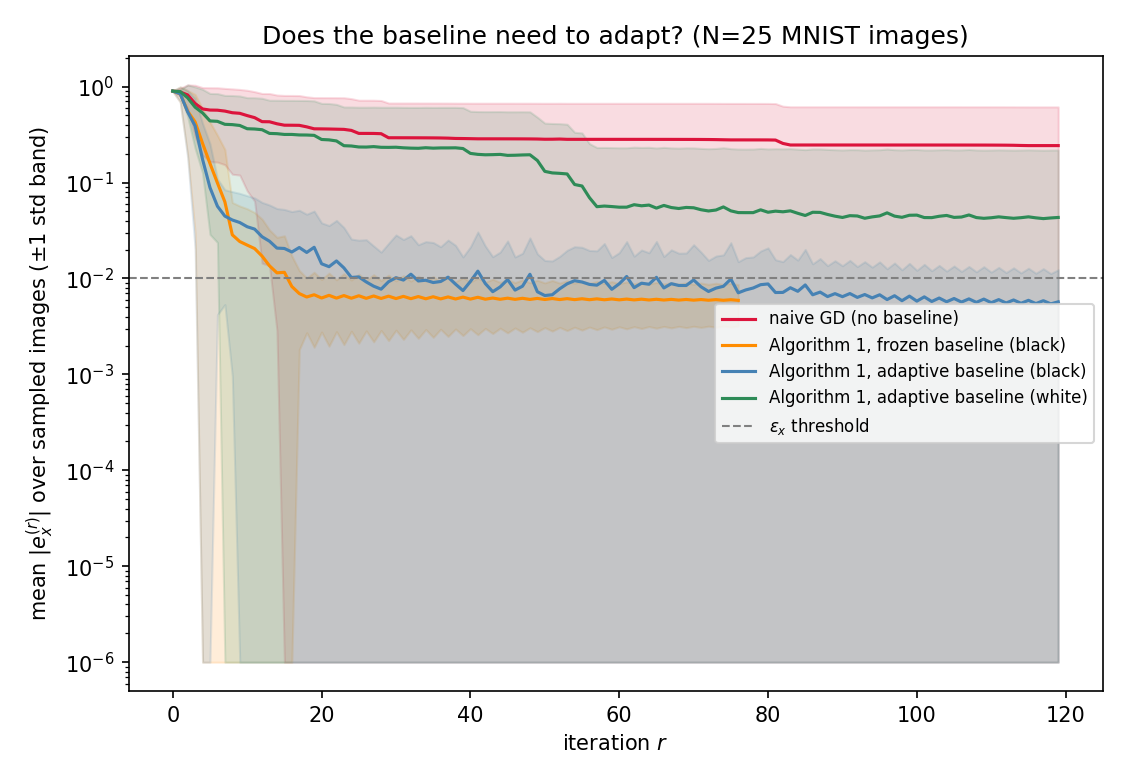
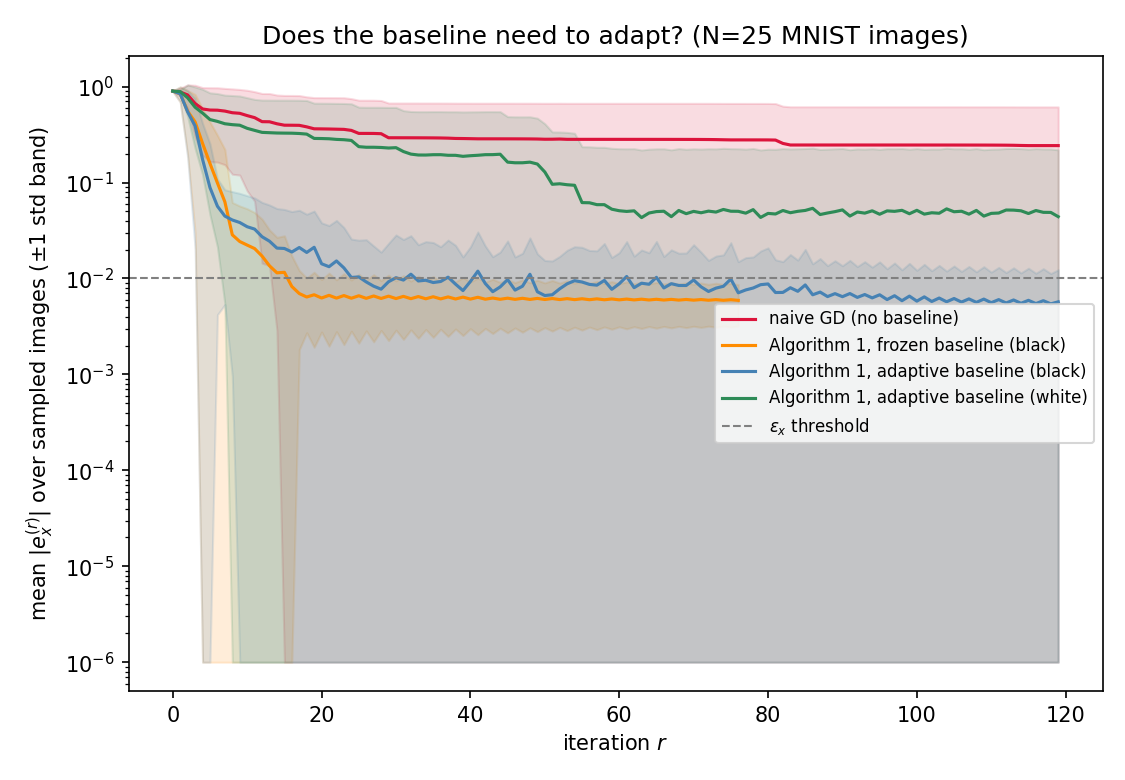
Sync: updated results

diff --git a/sim/ig_update.py b/sim/ig_update.py
@@ -113,32 +113,44 @@ def directional_path_sensitivity(f, b: torch.Tensor, d: torch.Tensor,
     return total / M
 
 
-def build_baseline_candidates(x: torch.Tensor, b: torch.Tensor, ig: torch.Tensor,
-                               top_k: int = 5, prev_dir: torch.Tensor | None = None):
+def ig_ranked_direction(f, b: torch.Tensor, ig: torch.Tensor, top_k: int,
+                         delta_b: float, M: int) -> torch.Tensor:
     """
-    Candidate directions per Sec 5.1: +/- e_j for IG-important coordinates,
-    the previous successful baseline direction, and the normalized current
-    deviation (x - b) as an optional probe.
+    Sec 5.1 candidate construction, simplified: rather than searching over a
+    handful of separate +/-e_j / previous-direction / full-deviation
+    candidates and probing each one, build a single combined direction
+    directly from IG's own ranking. IG picks *which* top-k coordinates to
+    move (its |IG_j| ranking); a short local probe on each of those
+    coordinates -- not the sign of x_j - b_j -- picks *which way*, weighted
+    by |IG_j|. Using dev's sign for direction would seem natural (and is
+    what an earlier version of this did) but is wrong once the baseline
+    advances past x along the useful direction: dev flips sign as soon as b
+    "overtakes" x, stalling further progress even though that direction is
+    still correct. A local probe has no notion of "toward x," so it keeps
+    giving the right sign regardless of where b sits relative to x.
     """
-    cands = {}
-    top = torch.topk(ig.abs().flatten(), k=min(top_k, ig.numel())).indices
-    for j in top.tolist():
-        e_j = torch.zeros_like(b).flatten()
+    p = ig.numel()
+    k = min(top_k, p)
+    ig_flat = ig.abs().flatten()
+    idx = torch.topk(ig_flat, k=k).indices
+    d = torch.zeros(p)
+    for j in idx.tolist():
+        e_j = torch.zeros(p)
         e_j[j] = 1.0
-        e_j = e_j.view_as(b)
-        cands[f"+e{j}"] = e_j
-        cands[f"-e{j}"] = -e_j
-    if prev_dir is not None:
-        cands["prev"] = prev_dir
-    dev = x - b
-    if dev.norm().item() > 1e-8:
-        cands["dev"] = dev / dev.norm()
-    return cands
+        Gj = directional_path_sensitivity(f, b, e_j.view_as(b), delta_b, M)
+        d[j] = ig_flat[j].item() * (1.0 if Gj >= 0 else -1.0)
+    d = d.view_as(b)
+    norm = d.norm()
+    # Note: unlike a "dev"-style direction, d's raw entries are |IG_j|
+    # magnitudes, which are legitimately tiny (down to ~1e-16) deep in
+    # saturation -- normalize whenever there's any signal at all (norm>0),
+    # not just when it clears an absolute-scale threshold like 1e-8.
+    return d / norm if norm.item() > 0.0 else d
 
 
 def baseline_update(f, b: torch.Tensor, y_t: float, eta_b: float, tau_b: float,
-                     eta_kick: float, candidates: dict, delta_b: float = 0.1,
-                     M: int = 10, project=None):
+                     eta_kick: float, ig: torch.Tensor, top_k: int,
+                     delta_b: float = 0.1, M: int = 10, project=None):
     g_loc, y_b = grad_and_value(f, b)
     e_b = (y_b - y_t).item()
     gloc_norm = g_loc.norm().item()
@@ -148,18 +160,18 @@ def baseline_update(f, b: torch.Tensor, y_t: float, eta_b: float, tau_b: float,
         if project is not None:
             b_new = project(b_new)
         return b_new, dict(mode="grad", e_b=e_b, y_b=y_b.item(),
-                            gloc_norm=gloc_norm, kicked=False, kick_dir=None)
+                            gloc_norm=gloc_norm, kicked=False)
 
-    best_name, best_val, best_d = None, None, None
-    for name, d in candidates.items():
-        dn = d / (d.norm() + 1e-12)
-        G = directional_path_sensitivity(f, b, dn, delta_b, M)
-        val = e_b * G
-        if best_val is None or val < best_val:
-            best_val, best_name, best_d = val, name, dn
+    # single IG-ranked, locally-signed direction, verified (not blindly
+    # trusted) via one more short probe before committing to the kick --
+    # keeps Sec 8.4's target-improvement guarantee without searching over
+    # many candidates.
+    direction = ig_ranked_direction(f, b, ig, top_k, delta_b, M)
+    G = directional_path_sensitivity(f, b, direction, delta_b, M)
+    val = e_b * G
 
-    if best_val is not None and best_val < 0:
-        b_new = b + eta_kick * best_d
+    if val < 0:
+        b_new = b + eta_kick * direction
         mode, kicked = "kick", True
     else:
         b_new = b.clone()
@@ -167,8 +179,7 @@ def baseline_update(f, b: torch.Tensor, y_t: float, eta_b: float, tau_b: float,
     if project is not None:
         b_new = project(b_new)
     return b_new, dict(mode=mode, e_b=e_b, y_b=y_b.item(), gloc_norm=gloc_norm,
-                        kicked=kicked, kick_dir=best_name if kicked else None,
-                        kick_dir_tensor=best_d if kicked else None)
+                        kicked=kicked)
 
 
 # ---------------------------------------------------------------------------
@@ -192,13 +203,11 @@ def run_algorithm1(f, x0: torch.Tensor, b0: torch.Tensor, y_t: float, R: int,
     """
     x, b = x0.clone(), b0.clone()
     history = []
-    prev_dir = None
     for r in range(R):
         vx, vinfo = vehicle_update(f, x, b, y_t, eta_x, tau_x, M, project_x, use_ig_weights)
         if not adapt_baseline:
             vb, binfo = b.clone(), dict(mode="frozen", e_b=(f(b).item() - y_t),
-                                         y_b=f(b).item(), gloc_norm=0.0, kicked=False,
-                                         kick_dir=None)
+                                         y_b=f(b).item(), gloc_norm=0.0, kicked=False)
             history.append(dict(r=r, x=x.clone(), b=b.clone(),
                                  **{f"x_{k}": v for k, v in vinfo.items()},
                                  **{f"b_{k}": v for k, v in binfo.items()}))
@@ -206,11 +215,8 @@ def run_algorithm1(f, x0: torch.Tensor, b0: torch.Tensor, y_t: float, R: int,
             if abs(vinfo["e_x"]) <= eps_x:
                 break
             continue
-        cands = build_baseline_candidates(x, b, vinfo["ig"], top_k, prev_dir)
-        vb, binfo = baseline_update(f, b, y_t, eta_b, tau_b, eta_kick, cands,
+        vb, binfo = baseline_update(f, b, y_t, eta_b, tau_b, eta_kick, vinfo["ig"], top_k,
                                      delta_b, max(M // 2, 5), project_b)
-        if binfo.get("kicked"):
-            prev_dir = binfo["kick_dir_tensor"]
         rec = dict(r=r, x=x.clone(), b=b.clone(), **{f"x_{k}": v for k, v in vinfo.items()},
                    **{f"b_{k}": v for k, v in binfo.items()})
         history.append(rec)

diff --git a/README.md b/README.md
@@ -127,19 +127,35 @@ b^(r+1) = Π_B[ b^(r) - eta_b * e_b^(r) * grad f(b^(r)) ],      ||grad f(b^(r))|
 with `eta_b < eta_x` so the reference moves more conservatively than the individual input.
 
 **Directional path probing** (Sec 5.1) fires when the baseline is *itself* saturated
-(`||grad f(b^(r))|| <= tau_b`). For candidate unit directions `d_k` (here: `+/- e_j` for the
-top-`k` IG-important coordinates, the previous successful kick direction, and the normalized
-current deviation `(x-b)/||x-b||`), define the directional path sensitivity
+(`||grad f(b^(r))|| <= tau_b`). The PDF lists several candidate directions to search over
+(`+/- e_j` for IG-important coordinates, the previous successful kick, the normalized current
+deviation `(x-b)/||x-b||`, plus domain-specific feasible directions); this implementation
+instead builds a *single* combined direction directly from IG's own ranking, verified once
+before committing to it, rather than searching over and picking the best of several:
 ```
-G_k^(r) = ∫_0^1 grad f(b^(r) + alpha * delta_b * d_k)^T d_k  d(alpha)
+idx      = top-k coordinates by |IG_j^(r)|
+G_j^(r)  = ∫_0^1 grad f(b^(r) + alpha * delta_b * e_j)^T e_j  d(alpha)     for j in idx
+d^(r)_j  = |IG_j^(r)| * sign(G_j^(r))      for j in idx,   0 elsewhere
+d^(r)    = d^(r) / ||d^(r)||
 ```
-so that `f(b + delta_b d_k) - f(b) = delta_b G_k^(r)` exactly. A direction is
-target-improving iff `e_b^(r) G_k^(r) < 0`; the algorithm takes the best such kick,
+i.e. IG picks *which* top-`k` coordinates to move and how much relative weight to give each
+(`|IG_j|`), while a short local probe along each one — *not* the sign of `x_j - b_j` — picks
+*which way*. That last distinction matters: an earlier version of this used `sign(x_j-b_j)`
+(move the baseline toward `x`), which seems natural but silently breaks once the baseline
+advances past `x` along the useful direction — `x_j-b_j` flips sign there and further
+progress stalls, even though that direction is still correct. A local probe has no notion of
+"toward x," so it keeps giving the right sign regardless of where `b` sits relative to `x`.
+The combined direction is then checked exactly like a single candidate would be,
 ```
-b^(r+1) = Π_B[ b^(r) + eta_kick * d_{k*}^(r) ],      k* = argmin_k e_b^(r) G_k^(r),
+G^(r) = ∫_0^1 grad f(b^(r) + alpha * delta_b * d^(r))^T d^(r)  d(alpha),
 ```
-and returns to ordinary gradient mode once local sensitivity is restored. This is the
-mechanism that lets a *badly placed* baseline rescue itself (Experiment 1, §7.1).
+and the kick only fires if it's genuinely target-improving (`e_b^(r) G^(r) < 0`):
+```
+b^(r+1) = Π_B[ b^(r) + eta_kick * d^(r) ]      if e_b^(r) G^(r) < 0,   else hold b^(r+1)=b^(r),
+```
+returning to ordinary gradient mode once local sensitivity is restored. This is the mechanism
+that lets a *badly placed* baseline rescue itself (Experiment 1, §7.1) — using `k+1` probe
+evaluations instead of a `2k+2`-candidate search.
 
 ## 6. Full coupled loop (Algorithm 1)
 
@@ -154,7 +170,7 @@ for r = 0 .. R-1:
     x^(r+1) <- Π_X[x^(r) - eta_x e_x W_IG g_x]
     g_loc,b <- grad f(b^(r))
     if ||g_loc,b|| > tau_b:  b^(r+1) <- Π_B[b^(r) - eta_b e_b g_loc,b]
-    else: directional-probe kick (Sec 5.1), or hold b^(r+1) = b^(r) if no candidate helps
+    else: IG-ranked directional-probe kick (Sec 5.1), or hold b^(r+1) = b^(r) if not improving
 return x^(R), b^(R)
 ```
 Implemented verbatim in [`sim/ig_update.py`](sim/ig_update.py) as `run_algorithm1`, generic
